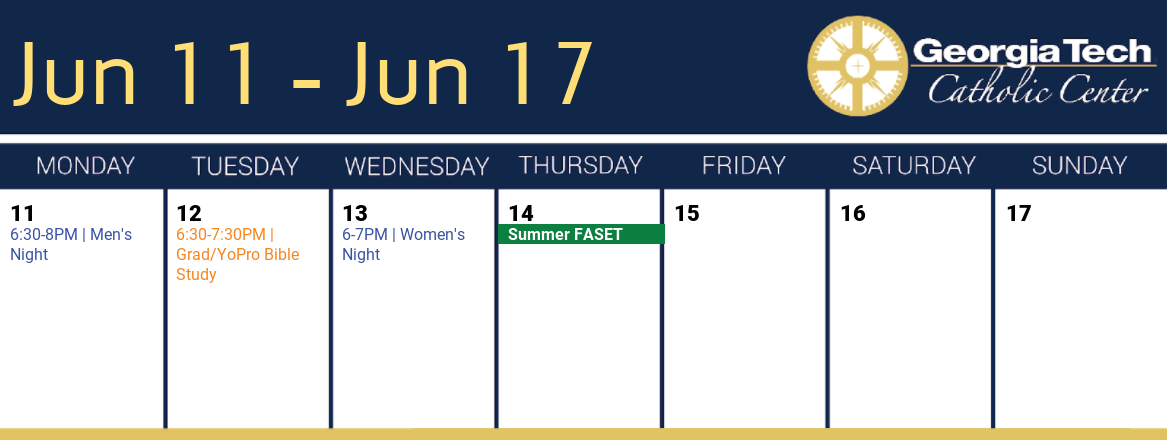
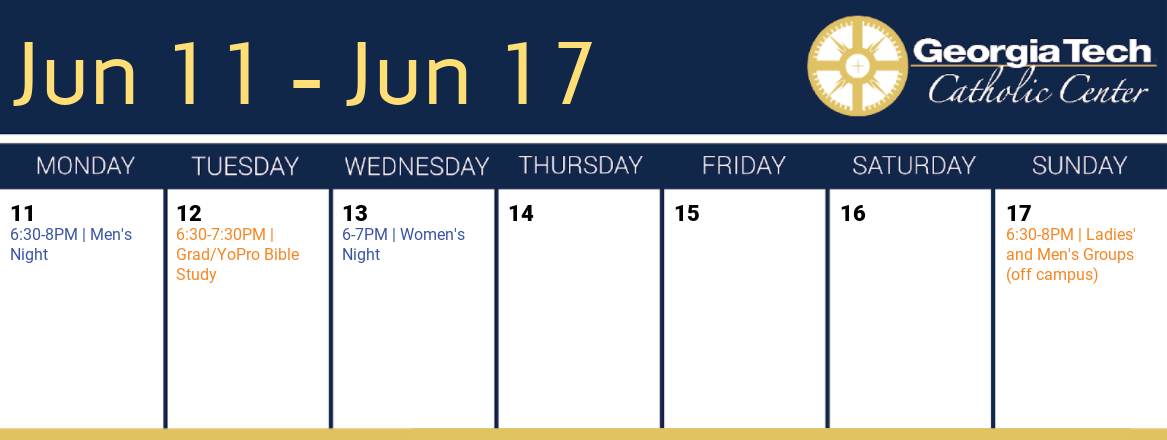
Pre switch to arrow

Changed region(s): [[0.8638, 0.5023, 0.9871, 0.65], [0.401, 0.5023, 0.5861, 0.5614]]

diff --git a/html/weekFB.html b/html/weekFB.html
@@ -3,7 +3,7 @@
 <hr>
 <h3>Import OrgSync</h3>
 <p>
-  <form action="/weekGT" method="POST" class="form-inline">
+  <form action="/weekFB" method="POST" class="form-inline">
     <div class="form-group">
       <label for="sel1">Select Week:</label>
       <select class="form-control" id="sel1" name=weekSel>

diff --git a/cal_maker.py b/cal_maker.py
@@ -65,7 +65,7 @@ def week_at_a_glance(cal_feed, adj_week, start_time = datetime.date.today(), spe
                 months[(next_monday + datetime.timedelta(6)).month - 1] + ' ' +
                 str((next_monday + datetime.timedelta(6)).day))
     # Pull image from template
-    img = Image.open("week.png").convert('RGBA')
+    img = Image.open("template.png").convert('RGBA')
     draw = ImageDraw.Draw(img)
 
     # Initialize Fonts
@@ -129,7 +129,8 @@ def week_at_a_glance(cal_feed, adj_week, start_time = datetime.date.today(), spe
 
 def this_week_at_GTCC(cal_feed, adj_week, start_time = datetime.date.today(), spec_title = False):
     # Image constants
-    day_width = 166
+    day_width = 164
+    start_height = 115
     event_text_height = 20
     desc_text_height = 14
 
@@ -138,10 +139,10 @@ def this_week_at_GTCC(cal_feed, adj_week, start_time = datetime.date.today(), sp
     # Make title date range
     week_str = (months[next_monday.month - 1] + ' ' +
                 str(next_monday.day) + ' - ' +
-                months[(next_monday + datetime.timedelta(6)).month - 1] + ' ' +
-                str((next_monday + datetime.timedelta(6)).day))
+                months[(next_monday + datetime.timedelta(4)).month - 1] + ' ' +
+                str((next_monday + datetime.timedelta(4)).day))
     # Pull image from template
-    img = Image.open("template.png").convert('RGBA')
+    img = Image.open("week.png").convert('RGBA')
     draw = ImageDraw.Draw(img)
 
     # Initialize Fonts
@@ -151,16 +152,13 @@ def this_week_at_GTCC(cal_feed, adj_week, start_time = datetime.date.today(), sp
     event = ImageFont.truetype("Roboto-Regular.ttf", 16)
     desc = ImageFont.truetype("Roboto-Regular.ttf", 12)
 
-    # Draw Title
-    draw.text((10, 20),spec_title if spec_title else week_str,(255, 222, 118),font=title)
-
     to_edit = {}
     # Loop through the 7 days of the week
-    for n in range(7):
+    for n in range(5):
         # Increment days
         wr_day = next_monday + datetime.timedelta(n)
         # Draw calendar date onto calendar
-        draw.text((10+day_width*n, 200), str(wr_day.day), (0,0,0), font=day_font)
+        draw.text((5+day_width*n, 85), str(wr_day.day), (255,255,255), font=day_font)
         to_edit[wr_day] = []
         # mth row to write text on
         m = 0
@@ -171,9 +169,9 @@ def this_week_at_GTCC(cal_feed, adj_week, start_time = datetime.date.today(), sp
                 to_draw = item['title']
                 # Use textwrap to make sure line doesn't exceed calendar day
                 for line in textwrap.wrap(to_draw, width=19):
-                    draw.line([(day_width*n,233+event_text_height*m),(day_width*(n+1),233+event_text_height*m)],fill=colors[item['event:type'] if item['event:type'] in colors.keys() else 'Other'],width=event_text_height)
+                    draw.line([(day_width*n,start_height+event_text_height*(m+0.5)),(day_width*(n+1),start_height+event_text_height*(m+0.5))],fill=colors[item['event:type'] if item['event:type'] in colors.keys() else 'Other'],width=event_text_height)
                     if wr_day.weekday() == 0 or not (item['event:startdate'] < wr_day):
-                        draw.text((10+day_width*n, 225+event_text_height*m),line,(255,255,255),font=all_day)
+                        draw.text((5+day_width*n, start_height+event_text_height*m),line,(255,255,255),font=all_day)
                     #o = draw.textsize(line,font=event)[0]
                     m = m + 1
         m1 = 0
@@ -189,15 +187,15 @@ def this_week_at_GTCC(cal_feed, adj_week, start_time = datetime.date.today(), sp
                     to_draw = make_date(item) + to_d
                     # Use textwrap to make sure line doesn't exceed calendar day
                     for line in textwrap.wrap(to_draw, width=19):
-                        draw.text((10+day_width*n, 225+event_text_height*m+desc_text_height*m1),line,colors[item['event:type'] if item['event:type'] in colors.keys() else 'Other'],font=event)
+                        draw.text((5+day_width*n, start_height+event_text_height*m+desc_text_height*m1),line,colors[item['event:type'] if item['event:type'] in colors.keys() else 'Other'],font=event)
                         # Increment line by 1 once written
                         m = m + 1
                     if 'desc_on' in item and item['desc_on'] == 'on' and item['description']:
                         lines = textwrap.wrap(item['description'], width=22)
-                        draw.rectangle([(10+day_width*n,225+event_text_height*m+desc_text_height*m1),(150+day_width*n,225+event_text_height*m+desc_text_height*(m1+len(lines)))],fill=lighten(colors[item['event:type'] if item['event:type'] in colors.keys() else 'Other']), outline=(0,0,0))
+                        draw.rectangle([(5+day_width*n,start_height+event_text_height*m+desc_text_height*m1),(150+day_width*n,start_height+event_text_height*m+desc_text_height*(m1+len(lines)))],fill=lighten(colors[item['event:type'] if item['event:type'] in colors.keys() else 'Other']), outline=(0,0,0))
                         for line in lines:
                             (w, h) = draw.textsize(line,font=desc)
-                            draw.text((10+day_width*n+(140-w)/2, 225+event_text_height*m+desc_text_height*m1),line,(0,0,0),font=desc)
+                            draw.text((10+day_width*n+(140-w)/2, start_height+event_text_height*m+desc_text_height*m1),line,(0,0,0),font=desc)
                             m1 = m1 + 1
     # Save finalized image
     img.save(week_str + '.png')

diff --git a/gtcc_cal.py b/gtcc_cal.py
@@ -7,6 +7,8 @@ import pytz
 import textwrap
 import cal_maker
 import pprint as pp
+import ics
+import arrow
 
 app = Bottle()
 
@@ -18,6 +20,8 @@ def load_html(files):
         with open('html\\'+file+'.html') as f:
             templates[file] = f.read()
     return templates
+
+lit_cal = ics.Calendar(requests.get('http://www.universalis.com/vcalendar.ics').text)
 
 templates = load_html(['home','template','accordion','weekGT','accordion_all_day', 'weekFB'])
 
@@ -131,7 +135,7 @@ def weekGT():
 
 @app.route('/weekFB', method='GET')
 def weekFB():
-    return templates['template'].format(body=templates['weekFB'],home_act='',prt_act='',GT_act='class="active"',week_act='',end_act='').format(image='week.png',accordion='')
+    return templates['template'].format(body=templates['weekFB'],home_act='',prt_act='',GT_act='',week_act='class="active"',end_act='').format(image='week.png',accordion='')
 
 @app.route('/weekFB', method='POST')
 def weekFB():
@@ -139,7 +143,7 @@ def weekFB():
     if request.POST.save:
         cal_feed = refresh_OrgSync()
         ask_week = {'This Week': -1, 'Next Week': 0, '2 Weeks Ahead': 1, '3 Weeks Ahead': 2}[request.POST.weekSel.strip()]
-        active_glance, editable = cal_maker.week_at_a_glance(cal_feed, ask_week)
+        active_glance, editable = cal_maker.this_week_at_GTCC(cal_feed, ask_week)
         accord = ''
         for event in cal_feed['all_day']:
             if event['event:startdate'] < max(editable.keys()) and event['event:enddate'] >= min(editable.keys()):
@@ -149,8 +153,8 @@ def weekFB():
             for event in editable[day]:
                 anacc = templates['accordion'].format(id=event['link'].split('/')[-1],title=event['title'],month=str(day.month),day_=str(day.day),description='' if 'description' not in event else event['description'])
                 accord = accord + anacc
-        return templates['template'].format(body=templates['weekGT'],home_act='',prt_act='',GT_act='class="active"',week_act='',end_act='').format(image=active_glance,accordion='''<div class="panel-group" id="accordion">
-    <form action="/weekGT" method="POST">'''+accord+
+        return templates['template'].format(body=templates['weekFB'],home_act='',prt_act='',GT_act='',week_act='class="active"',end_act='').format(image=active_glance,accordion='''<div class="panel-group" id="accordion">
+    <form action="/weekFB" method="POST">'''+accord+
             '''            <br>
             <button type="submit" class="btn btn-default" name="save2" value="iii">Update</button>
     </form>
@@ -180,7 +184,7 @@ def weekFB():
                             break
                             break
         ask_week = 0
-        active_glance, editable = cal_maker.week_at_a_glance(cal_feed, ask_week)
+        active_glance, editable = cal_maker.this_week_at_GTCC(cal_feed, ask_week)
         accord = ''
         for event in cal_feed['all_day']:
             if event['event:startdate'] < max(editable.keys()) and event['event:enddate'] >= min(editable.keys()):
@@ -190,13 +194,13 @@ def weekFB():
             for event in editable[day]:
                 anacc = templates['accordion'].format(id=event['link'].split('/')[-1],title=event['title'],month=str(day.month),day_=str(day.day),description='' if 'description' not in event else event['description'])
                 accord = accord + anacc
-        return templates['template'].format(body=templates['weekGT'],home_act='',prt_act='',GT_act='class="active"',week_act='',end_act='').format(image=active_glance,accordion='''<div class="panel-group" id="accordion">
-    <form action="/weekGT" method="POST">'''+accord+
+        return templates['template'].format(body=templates['weekFB'],home_act='',prt_act='',GT_act='',week_act='class="active"',end_act='').format(image=active_glance,accordion='''<div class="panel-group" id="accordion">
+    <form action="/weekFB" method="POST">'''+accord+
             '''            <br>
             <button type="submit" class="btn btn-default" name="save2" value="iii">Update</button>
     </form>
 </div>''')
     else:
-        return templates['template'].format(body=templates['weekGT'],home_act='',prt_act='',GT_act='class="active"',week_act='',end_act='').format(image='template.png',accordion='')
+        return templates['template'].format(body=templates['weekFB'],home_act='',prt_act='',GT_act='',week_act='class="active"',end_act='').format(image='week.png',accordion='')
 
 run(app, host='localhost', port=8080)
